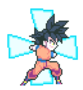
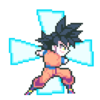
thêm goku bantumlum

diff --git a/src/gameobjects/MainCharacter.java b/src/gameobjects/MainCharacter.java
@@ -46,6 +46,7 @@ public class MainCharacter {
 	private AudioClip scoreUpSound;
 
 	static ArrayList bullets;
+	private boolean attackCheck = false;
 
 	public MainCharacter() {
 		posX = 50;
@@ -103,10 +104,32 @@ public class MainCharacter {
 	public void draw(Graphics g) {
 		switch (state) {
 		case NORMAL_RUN:
-			g.drawImage(normalRunAnim.getFrame(), (int) posX, (int) posY, null);
+//			if (getAttackCheck() == true) {
+//				g.drawImage(Resource.getResourceImage("data/Goku_attack_2.png"), (int) posX, (int) posY, null);
+//				attackCheck = false;
+//			}
+//			else {
+//				g.drawImage(normalRunAnim.getFrame(), (int) posX, (int) posY, null);
+//			}
+			if (getAttackCheck() == false) {
+				g.drawImage(normalRunAnim.getFrame(), (int) posX, (int) posY, null);
+			}else{
+				//g.drawImage(attackAnim.getFrame(), (int) posX, (int) posY, null);
+				attackCheck = false;
+				g.drawImage(Resource.getResourceImage("data/Goku_attack_2.png"), (int) posX, (int) posY, null);
+			}
 			break;
 		case JUMPING:
-			g.drawImage(jumping, (int) posX, (int) posY, null);
+			if (getAttackCheck() == false) {
+				g.drawImage(jumping, (int) posX, (int) posY, null);
+
+				//g.drawImage(normalRunAnim.getFrame(), (int) posX, (int) posY, null);
+			}else{
+				//g.drawImage(attackAnim.getFrame(), (int) posX, (int) posY, null);
+				attackCheck = false;
+				g.drawImage(Resource.getResourceImage("data/Goku_attack_2.png"), (int) posX, (int) posY, null);
+			}
+			//g.drawImage(jumping, (int) posX, (int) posY, null);
 			break;
 		case DOWN_RUN:
 			g.drawImage(downRunAnim.getFrame(), (int) posX, (int) (posY + 20), null);
@@ -117,8 +140,10 @@ public class MainCharacter {
 		case START:
 			g.drawImage(startImage, (int) posX, (int) posY - 5, null);
 			break;
+
 		case ATTACK:
-			g.drawImage(attackAnim.getFrame(), (int) posX, (int) posY, null);
+			//g.drawImage(attackAnim.getFrame(), (int) posX, (int) posY, null);
+			g.drawImage(Resource.getResourceImage("data/Goku_attack_2.png"), (int) posX, (int) posY,null);
 			break;
 		}
 //		Rectangle bound = getBound();
@@ -129,10 +154,10 @@ public class MainCharacter {
 	public void update() {
 		normalRunAnim.updateFrame();
 		downRunAnim.updateFrame();
-		attackAnim.updateFrame();
 		ArrayList bullets = MainCharacter.getBullets();
 		for(int w = 0; w < bullets.size(); w++){
-
+			//attackAnim.updateFrame();
+			attackCheck = true;
 			Bullet m = (Bullet) bullets.get(w);
 			if (m.getVisible() == true){
 				m.move();
@@ -140,6 +165,8 @@ public class MainCharacter {
 				bullets.remove(w);
 			}
 		}
+
+		//attackAnim.updateFrame();
 		if (posY >= LAND_POSY) {
 			posY = LAND_POSY;
 			if (state != DOWN_RUN) {
@@ -179,10 +206,15 @@ public class MainCharacter {
 //			return;
 //		}
 		if (isAttack) {
-			state = ATTACK;
+
+			attackCheck = true;
+			//state = ATTACK;
+
 		}
+
 //		else {
 //			state = NORMAL_RUN;
+//
 //		}
 	}
 
@@ -238,5 +270,20 @@ public class MainCharacter {
 
 	public static ArrayList getBullets(){
 		return bullets;
+	}
+
+	public float getPosX() {
+		return posX;
+	}
+
+	public float getPosY() {
+		return posY;
+	}
+
+	public boolean getAttackCheck(){
+		if (attackCheck){
+			return true;
+		}
+		return false;
 	}
 }

diff --git a/src/gameui/GameScreen.java b/src/gameui/GameScreen.java
@@ -92,17 +92,17 @@ public class GameScreen extends JPanel implements Runnable, KeyListener, MouseLi
 			// land.draw(g);
 
 
-			ArrayList bullets = MainCharacter.getBullets();
-			for(int w = 0; w < bullets.size(); w++){
 
-				Bullet m = (Bullet) bullets.get(w);
-				g2d.drawImage(m.getImage(), m.getX(),m.getY(),null);
-			}
 
 			enemyManager.draw(g);
 			mainCharacter.draw(g);
 
-
+			ArrayList bullets = MainCharacter.getBullets();
+			for(int w = 0; w < bullets.size(); w++){
+				//g2d.drawImage(Resource.getResourceImage("data/Goku_attack_2.png"), (int)(mainCharacter.getPosX()), (int)(mainCharacter.getPosY()),null);
+				Bullet m = (Bullet) bullets.get(w);
+				g2d.drawImage(m.getImage(), m.getX(),m.getY(),null);
+			}
 
 
 			g.setColor(Color.RED);
@@ -173,22 +173,14 @@ public class GameScreen extends JPanel implements Runnable, KeyListener, MouseLi
 			case GAME_PLAYING_STATE:
 				if (e.getKeyCode() == KeyEvent.VK_SPACE || e.getKeyCode() == KeyEvent.VK_UP) {
 					mainCharacter.jump();
-				}
+				}else
 				if (e.getKeyCode() == KeyEvent.VK_DOWN) {
 					mainCharacter.down(true);
-				}
+				}else
 				if (e.getKeyCode() == KeyEvent.VK_A) {
+
 					mainCharacter.attack(true);
-					//ArrayList bullets = MainCharacter.getBullets();
-//					for(int w = 0; w < bullets.size(); w++){
-//
-//						Bullet m = (Bullet) bullets.get(w);
-//						if (m.getVisible() == true){
-//							m.move();
-//						}else{
-//							bullets.remove(w);
-//						}
-//					}
+
 					mainCharacter.fire();
 				}
 				break;
